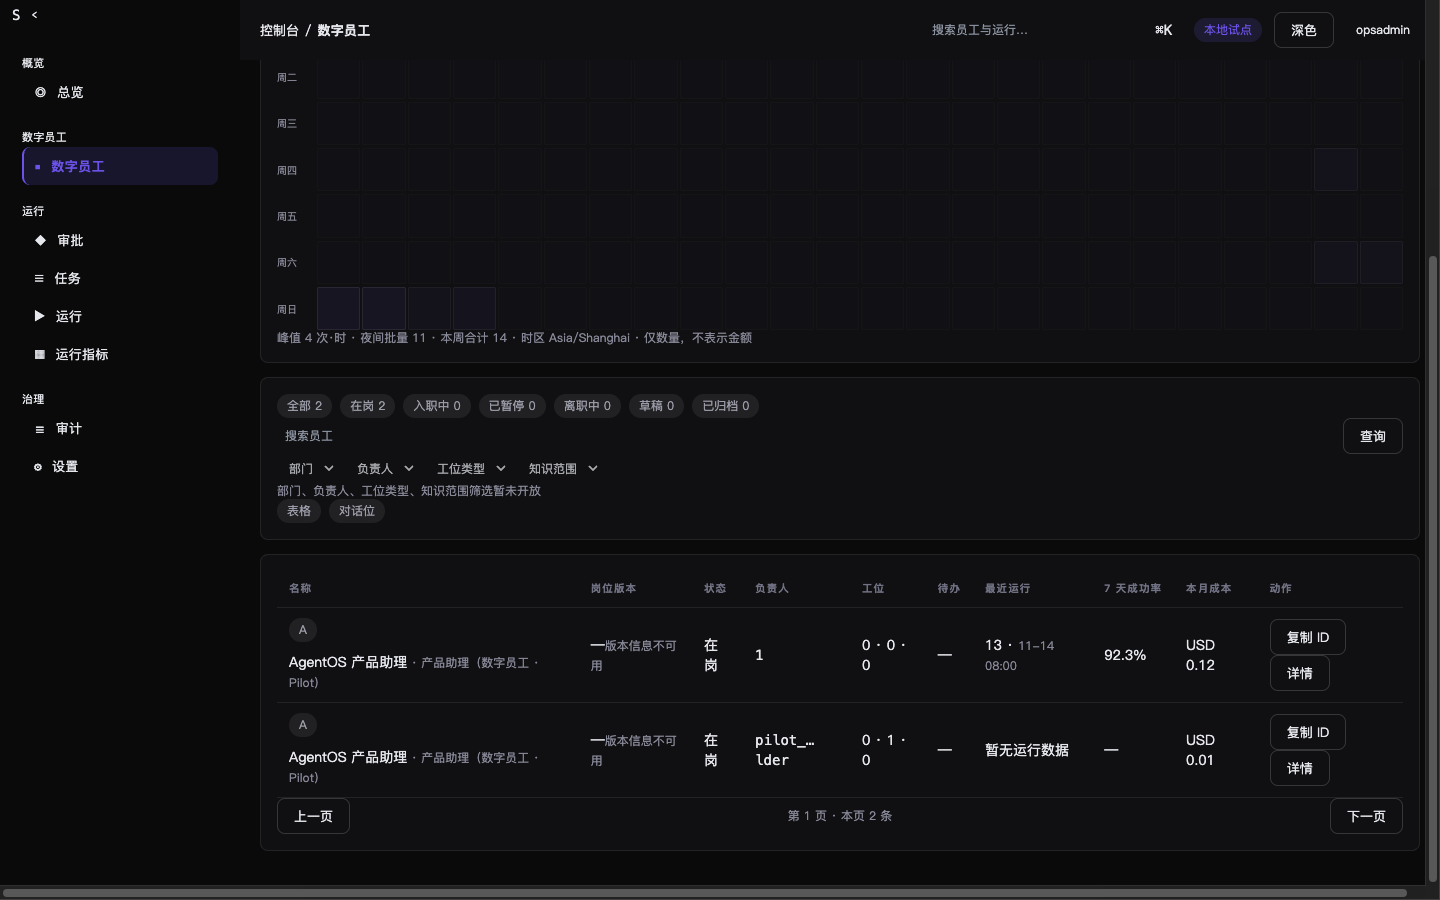
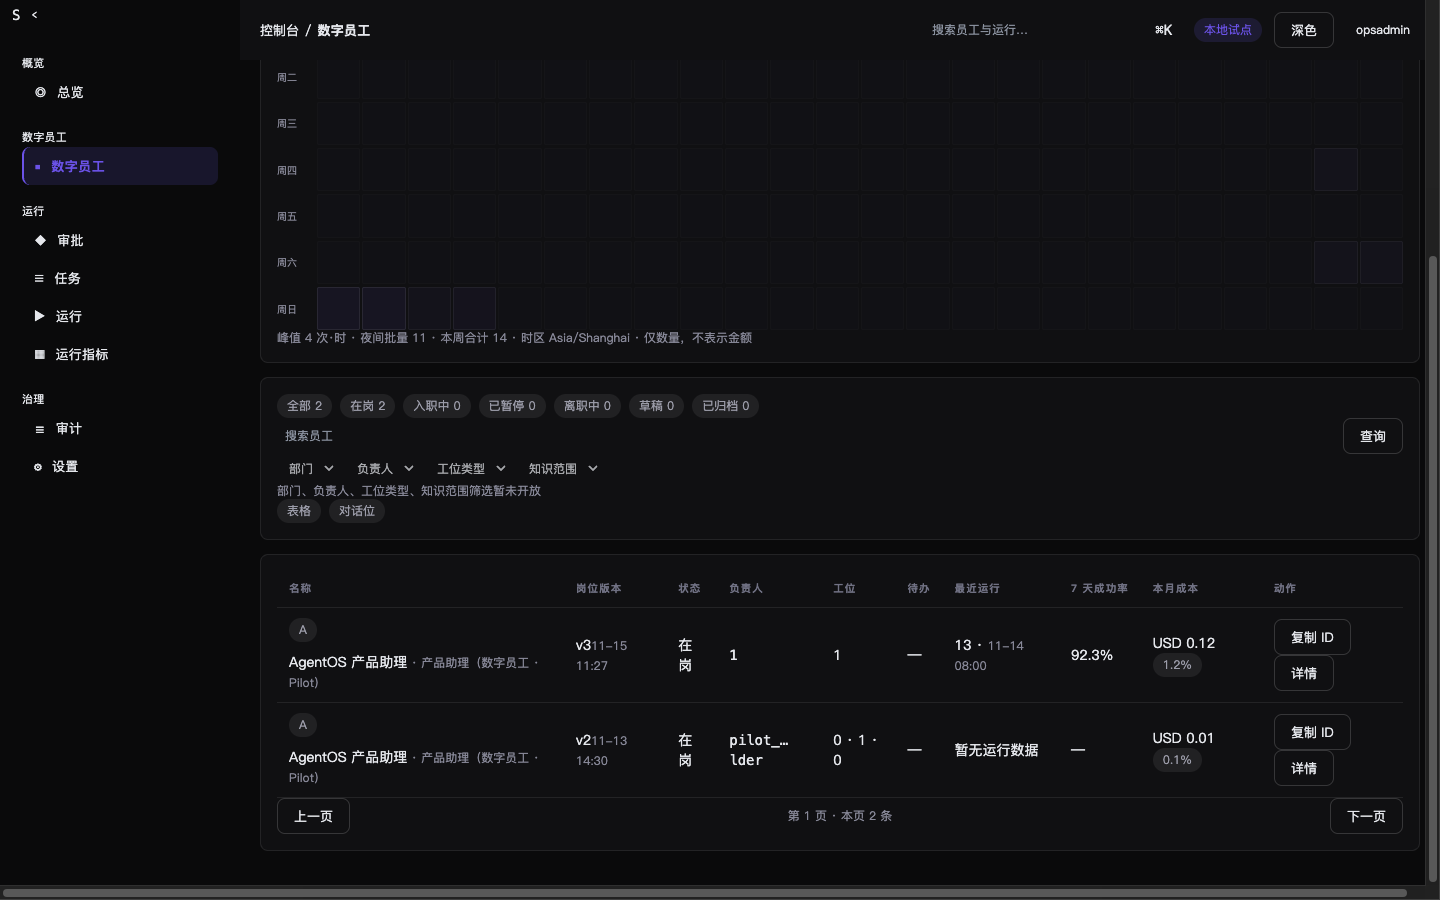
docs(validation): W2 enrichment live re-shoot PASS on 8182 after BFF restart (pid 67576)
- E11 expand=version,workstations,knowledge,pending now returns enrichment for both
  rows via Caddy/BFF (v3/v2, knowledgeCount=1, workstationCount=1, monthlyCostUsd=10).
- DOM table cells render real values; dashes=0, leaks all false, nav=8, th=10,
  sw=cw=375 mobile口径 no horizontal overflow.
- Overwrote w2-employees-1440-table/375-table/375x812 pngs (viewport-exact, sips);
  1440x900 fold image byte-identical by design (table below fold, see EVIDENCE caveat).
- 2115 BLOCKED screenshots kept as history. W2 remains in-progress (C0-B open).

diff --git a/docs/validation/console/employees-list/EVIDENCE.md b/docs/validation/console/employees-list/EVIDENCE.md
@@ -89,3 +89,13 @@ Status: four viewport tiers + light theme now evidenced. W2 remains in-progress 
 - Verdict: BLOCKED — table columns 岗位版本/工位/知识/待办 remain '—' on 8182. Fix = restart 8092 under L7/ops management (memory precedent: managed process older than merge = stale code, restart resolves). No fabrication, no restart attempted from this lane.
 - Re-shoot artifacts (kept side-by-side, old images NOT replaced to avoid implying confirmation): w2-employees-1440x900-20261115-2115.png (175340 B, 1440x900), w2-employees-1440-table-20261115-2115.png (105512 B, 1440x900), w2-employees-375x812-20261115-2115.png (48034 B, 375x812), all sips-verified; columns still show '—' in these images.
 - W2 status remains in-progress. After 8092 restart, only the enrichment re-shoot needs repeating (no code change in this lane).
+
+## Enrichment live re-shoot (2026-11-15, BFF restart closed the gap)
+
+- Root cause confirmed and fixed upstream: stale 8092 (pid 10486, predating B3) stripped `expand`; L0 restarted BFF (new pid 67576, 21:21:15).
+- Verified on 8182 with opsadmin session, page /agent/employees: E11 `?limit=2&expand=version,workstations,knowledge,pending` => 200 with enrichment on both rows (emp_86A8… currentVersionNo=3 / effectiveFrom 2026-11-15T03:27:58Z / knowledgeCount=1 / workstationCount=1 / effectiveBudget monthlyCostUsd=10; emp_0166… currentVersionNo=2).
+- DOM row cells now render real values: job-version `v3 · 11-15 11:27` / `v2 · 11-13 14:30` (Asia/Shanghai), workstations `0 · 0 · 0` / `0 · 1 · 0`, dashes=0, leaks (rawKey/undefined/mustache/cost_ledger/employees-list) all false, nav=8, th=10, no horizontal overflow (sw=cw=375 mobile emulation).
+- Note on the `—` in 待办 column: enrichment has no `pendingApprovalCount` for either row (API omits it), and row-level AP8 is not wired; per spec this stays an honest `—`, tracked as a known gap, not a fake zero.
+- Screenshots overwritten: w2-employees-1440x900.png, w2-employees-375x812.png, w2-employees-1440-table.png. Previous 2115 BLOCKED screenshots kept alongside as history.
+- W2 remains in-progress (C0-B open; not judged PASS here).
+- Caveat: the 1440x900 above-fold screenshot is byte-identical to the previous one because the employees table sits below the fold and enrichment does not alter KPI/heatmap/filters; row-level enrichment is proven by the table screenshots (1440 + 375) and the DOM cell text (v3 11-15 11:27 / v2 11-13 14:30) captured in the same reload sessions.
